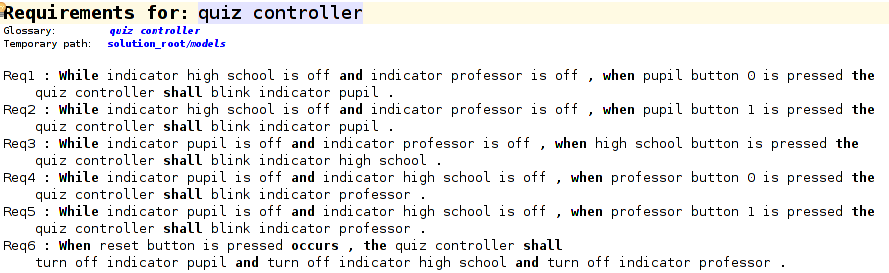
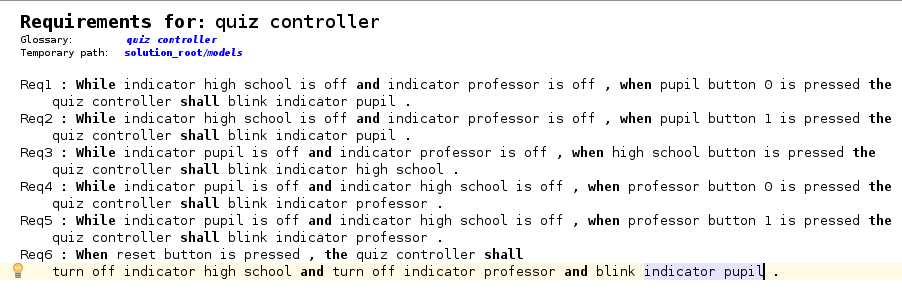
drafted tool demo paper

diff --git a/text_demo/Demosteps.tex b/text_demo/Demosteps.tex
@@ -5,16 +5,17 @@
 In this section, we discuss the main steps of the process that need to be
 followed for synthesizing the EARS-CTRL specification into a controller and
 validating if the controller behaves as expected.
-\vspace{-.3cm}
+\vspace{-.6cm}
 \subsection{Building a Glossary}
-\vspace{-.2cm}
+\vspace{-.3cm}
 The first step towards writing the controller specifications in natural
 language using \textsf{EARS-CTRL} is to define a glossary of terms. 
 As is depicted in figure~\ref{fig:glossary_def}, the user is provided with an
-editor to define glossary terms for: 1) components that interface with the
-controller; 2) sensors and actuators those components make available to the controller; 3) invariant relations
-that should hold between the sensor and actuator signals; and 4) for ease of
-writing, aliases to formulas involving sensors or actuators.
+editor to define glossary terms for: \emph{A}) components that interface
+with the controller; \emph{B}) sensors and actuators those components make
+available to the controller; \emph{C}) invariant relations that should hold
+between the sensor and actuator signals; and \emph{D}) for ease of writing,
+aliases to formulas involving sensors or actuators.
 \vspace{-.2cm}
 \begin{figure*}[!h]
 \centering
@@ -23,14 +24,14 @@ writing, aliases to formulas involving sensors or actuators.
 components definition, (\emph{B}) sensors definition, (\emph{C}) actuators
 definition and (\emph{D}) completed QC glossary}
 \label{fig:glossary_def}
-\vspace{-.6cm}
+\vspace{-.8cm}
 \end{figure*}
 \subsection{Building \textsf{EARS-CTRL} requirements for the Quiz Controller}
 \vspace{-.2cm}
 Figure~\ref{fig:EARS_req} provides the set of steps required to write a set of
 EARS requirements. In the projectional editor the user presses the CTRL+Space
 key combination to instantiate an EARS-based template that presents a number of
-placeholders (\emph{Step A}\levi{fix step A with new editor}). After obtaining
+placeholders (\emph{Step A}). After obtaining
 an instance of the EARS template, the user fills in the placeholders with
 information coming from the glossary definitions (\emph{Step B}). \emph{Step C}
 depicts the complete Quiz Controller specification.
@@ -39,29 +40,24 @@ depicts the complete Quiz Controller specification.
 \includegraphics[width=1.2\textwidth]{./images/Req_Spec_Steps.png}
 \caption{Step-by-step guidance for building controller requirements in
 \textsf{EARS-CTRL}, (\emph{A}) empty instance of EARS template with placeholders, (\emph{B}) filling instance
-of an EARS template with information and (\emph{C}) completed EARS Specification
-}
+of an EARS template with information and (\emph{C}) completed EARS Specification}
 \label{fig:EARS_req}
-\vspace{-.6cm}
+%\vspace{-.8cm}
 \end{figure*}
 \vspace{-.2cm}
 \subsection{Synthesizing \textsf{EARS-CTRL} requirements}
 \label{SynthReq}
-\vspace{-0cm}
+\vspace{-.3cm}
 Once the requirements for controller are completely specified, the user can
 attempt to synthesize the controller. For that the \emph{Transform} intention
 can be used by using the \emph{Alt+Enter} keys on the root of the specification
 (as shown in \emph{part A} of figure~\ref{fig:Spec_transform}). The generated
-output after applying the intention is comprised of: 1) the  \emph{Synchronized
-Data Flow} (SFD) diagram containing blocks connected by wires (\emph{part B} of
-figure~\ref{fig:Spec_transform}); 2) pseudo code representing the behavior of each of the blocks used
-by the synthesized controller (\emph{part C} of
-figure~\ref{fig:Spec_transform}); 3) a Simulink block
-diagram (\emph{part D} of figure~\ref{fig:Spec_transform}); and 4) empty panel
-for performing simulation and test cases generation (\emph{part E} of
-figure~\ref{fig:Spec_transform})\levi{fix panel to new version and there is
-some confusion here between numbers and letters. Maybe just use letters to
-avoid confusion}.
+output after applying the intention is comprised of: \emph{B}) the 
+\emph{Synchronized Data Flow} (SFD) diagram containing blocks connected by
+wires; \emph{C}) pseudo code representing the behavior of each of the blocks
+used by the synthesized controller; \emph{D}) a Simulink block
+diagram; and \emph{E}) empty panel
+for performing simulation and test cases generation.
 %\vspace{-.7cm}
 \begin{figure*}[!h]
 \centering
@@ -73,40 +69,59 @@ generated Simulink model (an excerpt) and (\emph{E})
 generated empty panel for simulation}
 \label{fig:Spec_transform}
 \end{figure*}
-\vspace{-.5cm}
+%\vspace{-.5cm}
 \subsection{Simulation and Test Cases for Validation of Controller
-Behavior\levi{there are too many explanations here. You don't need to explain
-what things are, this is already done in the paper. Jut say which steps are
-done in the demo!}}
+Behavior}
 \vspace{-.2cm}
-Validation of the generated controller to check if it behaves as expected can be
-performed using following techniques: 1) simulating the behavior of the
-controller step-by-step; and 2) automatically generating the test cases.
-The resulting traces from simulation or test generation are analyzed in order to
-check if the controller behaves as expected.
+Validation of the generated controller can be performed using 1) simulation
+and/or 2) test case generation.
 \vspace{-.3cm}
 \subsubsection{Simulation}
 \vspace{-.2cm}
-In order to perform simulation of the generated controller, the user gets the
-\textsf{EARS-CTRL} panel (i.e., as a result of applying the \emph{Transform}
-intention in section~\ref{SynthReq}) that allows the user to
-simulate the controller by providing a sequence of inputs manually.
-Figure~\ref{fig:SimulationSteps} shows a panel where outputs (i.e., the results)
-can be viewed in a tabular view provided to the user. A \textsf{“Reset Results”}
-button enables the user to reset the controller to its initial state. 
+In order to perform simulation of the generated controller, the user is provided
+with the \textsf{Simulation and Test Case Generation} panel in
+\textsf{EARS-CTRL}. \textsf{Part A} in Figure~\ref{fig:PanelView} shows a
+step-by-step view of the panel. For performing the step-by-step simulation, the
+user performs the process that is as follows , 1) select the
+\textsf{\emph{stepView}} from the drop down menu on the panel, 2) select (i.e.,
+selection means putting value to 1) or deselect (i.e., deselect means putting input value to 0) the radio buttons to give the inputs for simulation and 3) press the execute button. The output is added to
+the lower part of the  panel. 
 \begin{figure*}[!h]
 \centering
-\includegraphics[width=.9\textwidth]{./images/simulation.png}
-\caption{A panel for simulation of the generated controller for validation}
-\label{fig:SimulationSteps}
+\includegraphics[width=.9\textwidth]{./images/Two_Views_Panel.png}
+\caption{Simulation and test case generation panels, A) step-by-step simulation
+view and B) test case generation view}
+\label{fig:PanelView}
+\vspace{-.4cm}
+\end{figure*}
+\vspace{-.4cm}
+\subsubsection{Error Identification}
+We selected the step-by-step view of the panel. We wanted to reset the
+controller (execute the behavior of \emph{req6}in Figure~\ref{fig:QC_reqs}).
+We executed req1 till req5 (steps not discussed in detail due to space limitation).
+To simulate req6, we clicked the input
+\textsf{\emph{reset Radio button is clicked}} on the panel (see \textsf{Part A}
+in Figure~\ref{fig:PanelView}) and press the \emph{Execute} button. After
+getting the result we expected all three outputs that are; 1) \emph{
+indicator high school blink}, 2) \emph{indicator professor blink} and and 3)
+\emph{indicator pupil blink in} to be set to the \emph{Off} state. But we
+didn't get the expected behavior and the controller puts the indicator for the
+pupil to the \emph{On} state as shown in Figure~\ref{fig:simError}. This
+investigation led us to identify the error in \emph{req6} in
+Figure~\ref{fig:QC_reqs}.
+\begin{figure*}[!h]
+\centering
+\includegraphics[width=.9\textwidth]{./images/Simulation_Error.png}
+\caption{Error Identified during step-by-step simulation}
+\label{fig:simError}
 \vspace{-.6cm}
 \end{figure*}
 %\vspace{-.3cm}
 \subsubsection{Automatic Test Cases Generation} 
 \vspace{-.5cm}
-The user can automatically generate test cases
-(figure~\ref{fig:TestCaseGeneration}) by setting in the testing parameters.
-For the test case generation, the user inputs the
-parameters in the \textsf{EARS-CTRL} panel.
-The parameters required for test case generation are as follows, 1) \textsf{Test
-Sequence Length(integer value)}, 2) \textsf{Allow parallel inputs(true/false)} and 3) \textsf{Allow repeated inputs (true/false)}.
+\textsf{Part B} in Figure~\ref{fig:PanelView} shows a
+test case generation view of the panel. For performing the test cases
+generation, the user performs the process that is as follows, 1) select the
+\textsf{\emph{testCaseView}} from the drop down menu on the panel, 2)
+manually provides inputs for the simulation parameters (i.e., depth, allowSameInput and allowSameOutput) and 3) press the execute button. The output
+is added to \textsf{Result checker} part of the panel.A \textsf{“Reset Results”} button enables the user to reset the controller to its initial state.

diff --git a/text_demo/Introduction.tex b/text_demo/Introduction.tex
@@ -11,5 +11,4 @@ synthesize a controller once the specification is sufficiently sound and
 complete; and \emph{3}) we simulate and generate test case to
 validate if the controller behavior behaves as expected.
 Performing validation enables the user to find errors (e.g. missing
-requirements) and provides help to the user in order to correct
-them\levi{does it?}.
+requirements).

diff --git a/text_demo/Runningexample.tex b/text_demo/Runningexample.tex
@@ -18,4 +18,5 @@ Given \textsf{EARS-CTRL} is English, the requirements are self-explanatory.
 \includegraphics[width=1\textwidth]{./images/QC_Reqs.png}
 \caption{Requirements written in \textsf{EARS-CTRL} for a Quiz Controller}
 \label{fig:QC_reqs}
+\vspace{-.5cm}
 \end{figure*}

diff --git a/MoDELS_tool_demo_2017.tex b/MoDELS_tool_demo_2017.tex
@@ -92,6 +92,7 @@ youtubevideo]
 \input{text_demo/Introduction.tex} 
 \input{text_demo/Runningexample.tex} 
 \input{text_demo/Demosteps.tex}
+\newpage
 \bibliographystyle{plain}
 \bibliography{./bibliography}
 \end{document}
